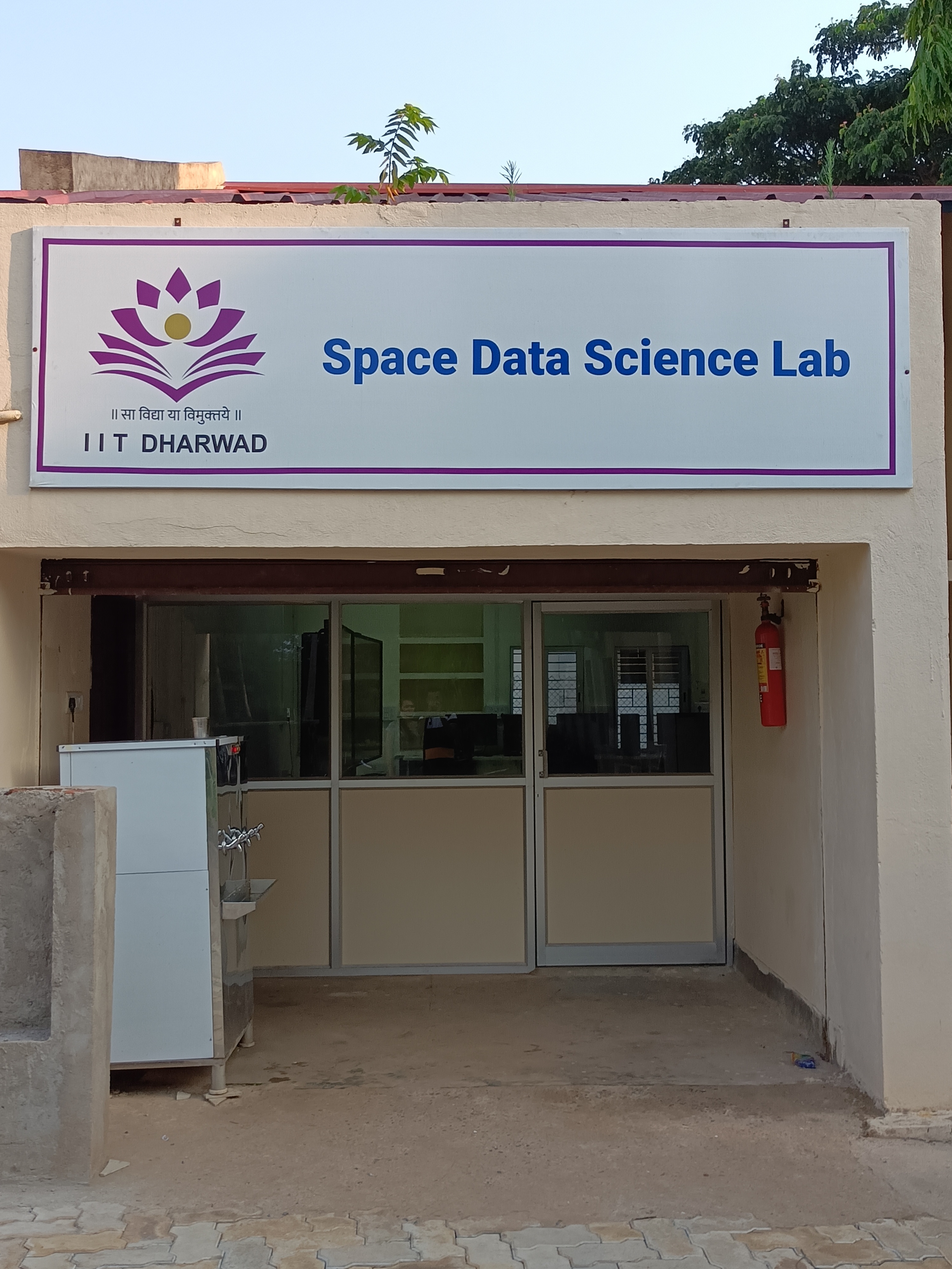
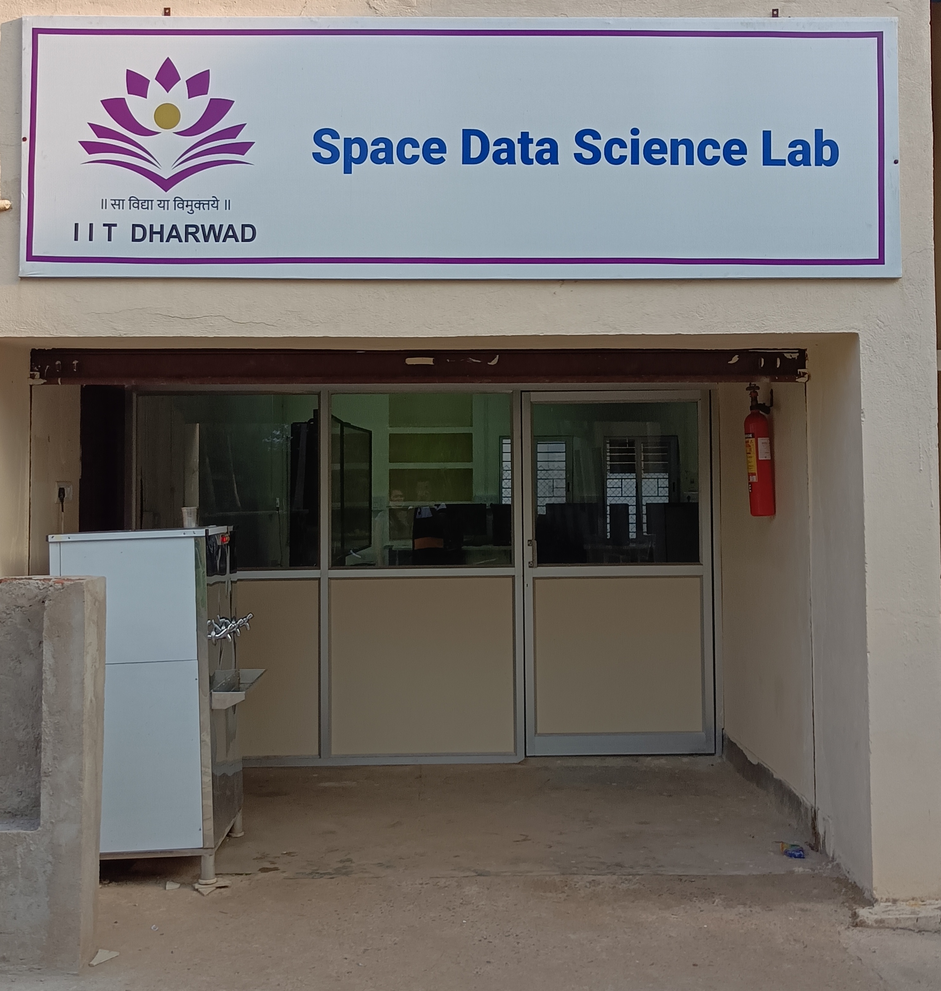
Made the final edits

diff --git a/index.html b/index.html
@@ -54,7 +54,7 @@
           <li><a class="nav-link scrollto" href="#Facilities">Facilities</a></li>
           <li><a class="nav-link scrollto" href="#Challenges">Current Projects</a></li>
           <li><a class="nav-link scrollto" href="#Gallery">Gallery</a></li>
-          <li><a class="nav-link scrollto" href="#Students">Students</a></li>
+          <li><a class="nav-link scrollto" href="#Team">Team</a></li>
           <!-- <li class="dropdown"><a href="#"><span>Drop Down</span> <i class="bi bi-chevron-down"></i></a>
             <ul>
               <li><a href="#">Drop Down 1</a></li>
@@ -258,10 +258,10 @@
         </div>
 
         <div class="row">
-          <div class="col-lg-9 col-md-10 d-flex align-items-stretch" data-aos="zoom-in" data-aos-delay="100">
+          <div class="col-lg-12 col-md-12 d-flex align-items-stretch" data-aos="zoom-in" data-aos-delay="100">
             <div class="icon-box">
               <h4><a href="">Variable Climatic Patterns Affecting Agricultural Sector</a></h4>
-              <img src="assets/img/projects/draught.jpg" class="img-fluid" style="width:80%; margin-bottom:20px;" alt="">
+              <img src="assets/img/projects/draught.jpg" class="img-fluid" style="width:40%; margin-bottom:20px;" alt="">
               <div style="text-align:left ">
                 
                 <h5>Description:</h5>
@@ -297,12 +297,12 @@
             </div>
           </div>
         </div>
-
+        <br/>
         <div class="row">
-          <div class="col-lg-9 col-md-10 d-flex align-items-stretch" data-aos="zoom-in" data-aos-delay="200">
+          <div class="col-lg-12 col-md-12 d-flex" data-aos="zoom-in" data-aos-delay="200">
             <div class="icon-box">
               <h4><a href="">Water Crisis</a></h4>
-                <img src="assets/img/projects/lake.jpg" class="img-fluid" style="width:80%; margin-bottom:20px;" alt="">
+                <img src="assets/img/projects/lake.jpg" class="img-fluid" style="width:40%; margin-bottom:20px;" alt="">
               <div style="text-align:left">
                 <h5>Description:</h5>
                 <p>
@@ -331,12 +331,12 @@
             </div>
           </div>
         </div>
-
+        <br/>
         <div class="row">
-          <div class="col-lg-9 col-md-10 d-flex align-items-stretch" data-aos="zoom-in" data-aos-delay="300">
+          <div class="col-lg-12 col-md-12 d-flex align-items-stretch" data-aos="zoom-in" data-aos-delay="300">
             <div class="icon-box">
               <h4><a href="">Western Ghats Diversity</a></h4>
-              <img src="assets/img/projects/bio.jpg" class="img-fluid" style="width:80%; margin-bottom:20px;" alt="">
+              <img src="assets/img/projects/bio.jpg" class="img-fluid" style="width:40%; margin-bottom:20px;" alt="">
               <div style="text-align:left">
                 <h5>Description:</h5>
                 <p>
@@ -393,10 +393,10 @@
             <div class="portfolio-wrap">
               <img src="assets/img/lab/0.jpg" class="img-fluid" alt="">
             <div class="portfolio-info">
-                <h4>Lab Entrance</h4>
+                <h4>Space Data Science Lab</h4>
                 <p></p>
                 <div class="portfolio-links">
-                  <a href="assets/img/lab/0.jpg" data-gallery="portfolioGallery" class="portfolio-lightbox" title="lab entrance"><i class="bx bx-plus"></i></a>
+                  <a href="assets/img/lab/0.jpg" data-gallery="portfolioGallery" class="portfolio-lightbox" title="Space Data Science Lab"><i class="bx bx-plus"></i></a>
                 </div>
               </div>
             </div>
@@ -432,10 +432,10 @@
             <div class="portfolio-wrap">
               <img src="assets/img/lab/3.jpg" class="img-fluid" alt="">
             <div class="portfolio-info">
-                <h4>Dual Display Setup</h4>
+                <h4>High Definition Data Visualization Wall</h4>
                 <p></p>
                 <div class="portfolio-links">
-                  <a href="assets/img/lab/3.jpg" data-gallery="portfolioGallery" class="portfolio-lightbox" title="Dual Display Setup"><i class="bx bx-plus"></i></a>
+                  <a href="assets/img/lab/3.jpg" data-gallery="portfolioGallery" class="portfolio-lightbox" title="High Definition Data Visualization Wall"><i class="bx bx-plus"></i></a>
                 </div>
               </div>
             </div>
@@ -445,36 +445,10 @@
             <div class="portfolio-wrap">
               <img src="assets/img/lab/4.jpg" class="img-fluid" alt="">
             <div class="portfolio-info">
-                <h4>Lab Image</h4>
+                <h4>Lab Setup</h4>
                 <p></p>
                 <div class="portfolio-links">
-                  <a href="assets/img/lab/4.jpg" data-gallery="portfolioGallery" class="portfolio-lightbox" title="Lab Image"><i class="bx bx-plus"></i></a>
-                </div>
-              </div>
-            </div>
-          </div>
-
-          <div class="col-lg-4 col-md-6 portfolio-item filter-web" style="position: absolute; left: 320px; top: 0px;">
-            <div class="portfolio-wrap">
-              <img src="assets/img/lab/5.jpg" class="img-fluid" alt="">
-            <div class="portfolio-info">
-                <h4>Dual Display Setup</h4>
-                <p></p>
-                <div class="portfolio-links">
-                  <a href="assets/img/lab/5.jpg" data-gallery="portfolioGallery" class="portfolio-lightbox" title="Dual Display Setup"><i class="bx bx-plus"></i></a>
-                </div>
-              </div>
-            </div>
-          </div>
-
-          <div class="col-lg-4 col-md-6 portfolio-item filter-web" style="position: absolute; left: 320px; top: 0px;">
-            <div class="portfolio-wrap">
-              <img src="assets/img/lab/6.jpg" class="img-fluid" alt="">
-            <div class="portfolio-info">
-                <h4>Lab Image</h4>
-                <p></p>
-                <div class="portfolio-links">
-                  <a href="assets/img/lab/6.jpg" data-gallery="portfolioGallery" class="portfolio-lightbox" title="Lab Image"><i class="bx bx-plus"></i></a>
+                  <a href="assets/img/lab/4.jpg" data-gallery="portfolioGallery" class="portfolio-lightbox" title="Lab Setup"><i class="bx bx-plus"></i></a>
                 </div>
               </div>
             </div>
@@ -484,10 +458,10 @@
             <div class="portfolio-wrap">
               <img src="assets/img/lab/7.jpg" class="img-fluid" alt="">
             <div class="portfolio-info">
-                <h4>Lab Seating Area</h4>
+                <h4>Lab Occupancy</h4>
                 <p></p>
                 <div class="portfolio-links">
-                  <a href="assets/img/lab/7.jpg" data-gallery="portfolioGallery" class="portfolio-lightbox" title="Lab Seating Area"><i class="bx bx-plus"></i></a>
+                  <a href="assets/img/lab/7.jpg" data-gallery="portfolioGallery" class="portfolio-lightbox" title="Lab Occupancy"><i class="bx bx-plus"></i></a>
                 </div>
               </div>
             </div>
@@ -497,40 +471,14 @@
             <div class="portfolio-wrap">
               <img src="assets/img/lab/8.jpg" class="img-fluid" alt="">
             <div class="portfolio-info">
-                <h4>Lab Seating Area</h4>
+                <h4>Lab Occupancy</h4>
                 <p></p>
                 <div class="portfolio-links">
-                  <a href="assets/img/lab/8.jpg" data-gallery="portfolioGallery" class="portfolio-lightbox" title="Lab Seating Area"><i class="bx bx-plus"></i></a>
+                  <a href="assets/img/lab/8.jpg" data-gallery="portfolioGallery" class="portfolio-lightbox" title="Lab Occupancy"><i class="bx bx-plus"></i></a>
                 </div>
               </div>
             </div>
           </div>
-
-          <div class="col-lg-4 col-md-6 portfolio-item filter-web" style="position: absolute; left: 320px; top: 0px;">
-            <div class="portfolio-wrap">
-              <img src="assets/img/lab/9.jpg" class="img-fluid" alt="">
-            <div class="portfolio-info">
-                <h4>Lab Seating Area</h4>
-                <p></p>
-                <div class="portfolio-links">
-                  <a href="assets/img/lab/9.jpg" data-gallery="portfolioGallery" class="portfolio-lightbox" title="Lab Seating Area"><i class="bx bx-plus"></i></a>
-                </div>
-              </div>
-            </div>
-          </div>
-
-          <!-- <div class="col-lg-4 col-md-6 portfolio-item filter-web" style="position: absolute; left: 320px; top: 0px;">
-            <div class="portfolio-wrap">
-              <img src="assets/img/lab/10.jpg" class="img-fluid" alt="">
-            <div class="portfolio-info">
-                <h4>Lab Seating Area</h4>
-                <p></p>
-                <div class="portfolio-links">
-                  <a href="assets/img/lab/10.jpg" data-gallery="portfolioGallery" class="portfolio-lightbox" title="Lab Seating Area"><i class="bx bx-plus"></i></a>
-                </div>
-              </div>
-            </div>
-          </div>     -->
 
         </div>
 
@@ -591,59 +539,14 @@
     </section> -->
     <!-- End Counts Section -->
 
-    <!-- ======= Testimonials Section ======= -->
-    <section id="testimonials" class="testimonials">
-      <div class="container" data-aos="zoom-in">
-
-        <div class="testimonials-slider swiper" data-aos="fade-up" data-aos-delay="">
-          <div class="swiper-wrapper">
-
-            <div class="swiper-slide">
-              <div class="testimonial-item">
-                <img src="assets/img/testimonials/testimonials-1.jpg" class="testimonial-img" alt="">
-                <h3>Prof. Rajshekhar Bhat</h3>
-                <h4>Chairman &amp; Founder</h4>
-                <p>
-                  DESC:Proin iaculis purus consequat sem cure digni ssim donec porttitora entum suscipit rhoncus. Accusantium quam, ultricies eget id, aliquam eget nibh et. Maecen aliquam, risus at semper.
-                </p>
-                <div class="social">
-                  <a href=""><i class="bi bi-twitter"></i></a>
-                  <a href=""><i class="bi bi-linkedin"></i></a>
-                </div>
-              </div>
-            </div>
-
-            <div class="swiper-slide">
-              <div class="testimonial-item">
-                <img src="assets/img/testimonials/testimonials-1.jpg" class="testimonial-img" alt="">
-                <h3>Prof. 2</h3>
-                <h4>Chairman &amp; Founder</h4>
-                <p>
-                  DESC:Proin iaculis purus consequat sem cure digni ssim donec porttitora entum suscipit rhoncus. Accusantium quam, ultricies eget id, aliquam eget nibh et. Maecen aliquam, risus at semper.
-                </p> 
-                <div class="social">
-                  <a href=""><i class="bi bi-twitter"></i></a>
-                  <a href=""><i class="bi bi-linkedin"></i></a>
-                </div>
-              </div>
-            </div>
-
-          </div>
-          <div class="swiper-pagination"></div>
-        </div>
-
-      </div>
-    </section>
-    <!-- End Testimonials Section -->
-
 
     <!-- ======= Team Section ======= -->
-    <section id="Students" class="team">
+    <section id="Team" class="team">
       <div class="container" data-aos="fade-up">
 
         <div class="section-title">
           <!-- <h2>Students</h2> -->
-          <p>Students</p>
+          <p>Team</p>
         </div>
 
         <div class="row">
@@ -672,6 +575,44 @@
                 <h4>Other UG students</h4>
                 <p>We have several undergraduate students who are a part of the Space Data Science Club, a club associated with the lab. The members of the club actively collaborate on projects and conduct various activities.</p>
                </div>
+            </div>
+          </div>
+
+        </div>
+
+        <div class="row">
+          
+          <div class="col-lg-6 col-md-6 d-flex align-items-stretch">
+            <div class="row member" data-aos="fade-up" data-aos-delay="200">
+              <div class="col-lg-3 col-md-3" style="vertical-align: middle;">
+                <img style="height:100px;width:100px;border-radius: 50%;border: 6px solid rgba(255, 255, 255, 0.15); margin-right:50px;" src="assets/img/team/rajshekhar.jpg" alt="">
+              </div>
+              <div class="col-lg-9 col-md-9 member-info">
+                <h4>Prof. Rajshekhar V Bhat</h4>
+                <span>Assistant Professor : Electrical Engineering IIT Dharwad</span>
+                <div class="">
+                  <a href="https://sites.google.com/view/rajshekharbhat/home"><i class="bi bi-link"></i></a>
+                  <a href=""><i class="bi bi-linkedin"></i></a>
+                </div>
+              </div>
+               
+            </div>
+          </div>
+
+          <div class="col-lg-6 col-md-6 d-flex align-items-stretch">
+            <div class="member row" data-aos="fade-up" data-aos-delay="200">
+              <div class="col-lg-3 col-md-3" style="vertical-align: middle;">
+                <img style="height:100px;width:100px;border-radius: 50%;border: 6px solid rgba(255, 255, 255, 0.15);" src="assets/img/team/rahul.jpg" alt="">
+              </div>
+              <div class="col-lg-9 col-md-9 member-info">
+                <h4>Prof. Rahul Jashvantbhai Pandya</h4>
+                <span>Assistant Professor : Electrical Engineering IIT Dharwad</span>
+                <div class="">
+                  <a href="https://sites.google.com/iitdh.ac.in/rpandya"><i class="bi bi-link"></i></a>
+                  <a href=""><i class="bi bi-linkedin"></i></a>
+                </div>
+              </div>
+               
             </div>
           </div>
         </div>
@@ -804,3 +745,8 @@
 <!-- 1. add logos with hyperlinks to the websites
 2. gallery, click to show the modal and add description/captions
 3. update about us and current project content -->
+
+<!-- 4. update the bg images
+5. update cards for Professor
+6. rename the students section to Team
+7. crop the lab image Done-->

diff --git a/assets/css/style.css b/assets/css/style.css
@@ -355,7 +355,7 @@ h1, h2, h3, h4, h5, h6 {
 #hero {
   width: 100%;
   height: 100vh;
-  background: url("../img/hero-bg.jpg") top center;
+  background: url("../img/bg.jpg") top center;
   background-size: cover;
   position: relative;
 }
